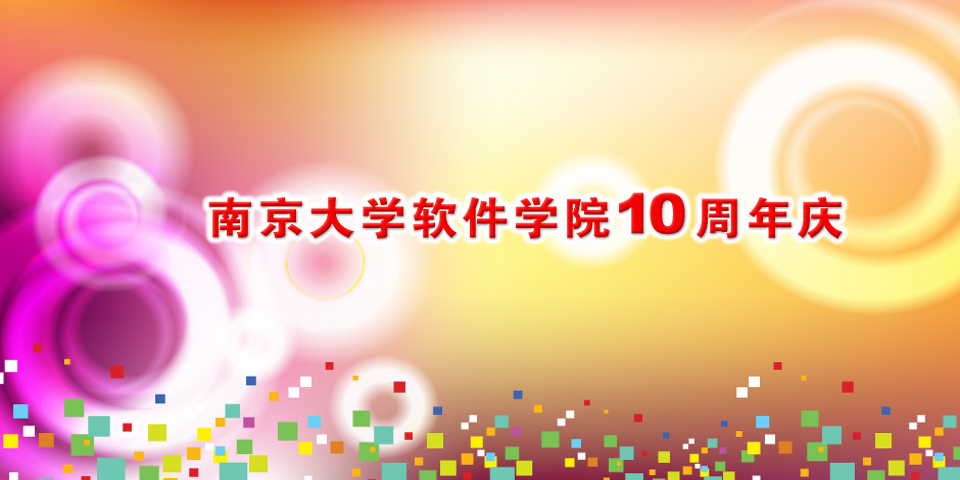
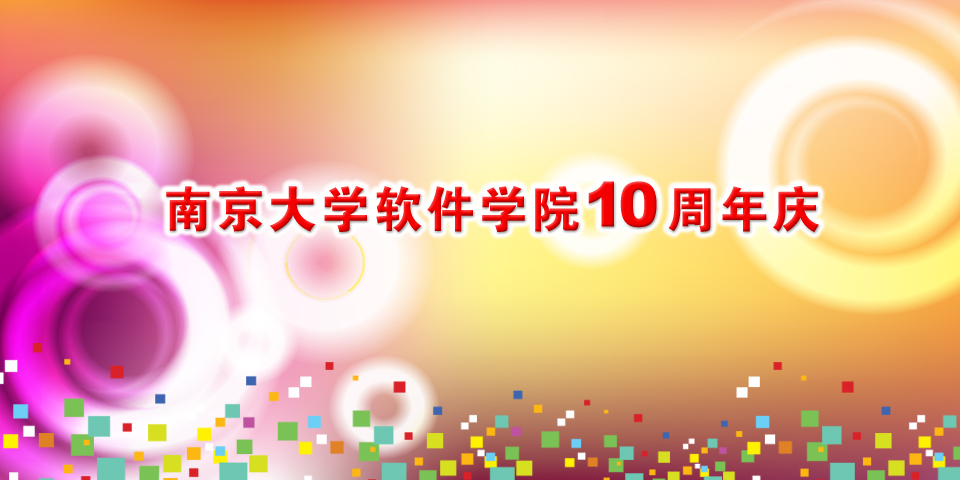
slide template

Changed region(s): [[0.1562, 0.3438, 0.9062, 0.5312]]

diff --git a/fonts/msyh.font.js b/fonts/msyh.font.js
@@ -21,4 +21,4 @@
  * License information:
  * http://www.microsoft.com/typography/fonts
  */
-Cufon.registerFont({"w":360,"face":{"font-family":"Microsoft YaHei","font-weight":700,"font-stretch":"normal","font-style":"normal","units-per-em":360,"panose-1":"2 11 7 3 2 2 4 2 2 1","ascent":288,"descent":-72,"bbox":"4 -302 358 53","underline-thickness":"20.918","underline-position":"-20.918","unicode-range":"U+0020-9996"},"glyphs":{" ":{"w":107},"\u00a0":{"w":107},"\u4e0b":{"d":"227,-190v38,27,76,56,114,85r-36,44v-40,-34,-76,-64,-109,-88r0,195r-57,0r0,-275r-129,0r0,-49r339,0r0,49r-153,0r0,70"},"\u4ea4":{"d":"9,-256r142,0v-5,-11,-8,-21,-12,-29r52,-16v6,11,12,26,21,45r136,0r0,44r-339,0r0,-44xm11,-131v39,-26,73,-52,102,-80r38,34v-34,30,-69,60,-107,87v-8,-11,-19,-25,-33,-41xm244,-210v39,27,73,53,104,77r-37,40v-32,-30,-66,-57,-100,-83xm129,-141v15,27,32,49,51,67v20,-19,36,-42,49,-68r42,28v-15,27,-32,51,-51,71v34,19,78,33,134,39v-12,20,-21,36,-29,50v-56,-8,-104,-25,-145,-54v-40,28,-89,46,-147,55v-6,-13,-15,-30,-28,-50v54,-7,99,-21,135,-41v-19,-20,-36,-43,-50,-68"},"\u516c":{"d":"253,-294v26,54,61,98,102,133v-17,17,-30,31,-40,42v-41,-38,-78,-89,-108,-153xm105,-290r48,20v-26,58,-63,110,-111,155v-8,-10,-20,-24,-35,-41v43,-38,75,-82,98,-134xm33,-13v36,-18,103,-132,123,-169r52,23v-40,62,-72,107,-97,135v46,-1,90,-2,132,-4v-14,-19,-29,-40,-45,-61r42,-27v37,45,70,89,99,133r-46,32v-6,-10,-11,-20,-18,-30v-73,6,-155,2,-220,16"},"\u5173":{"d":"9,-138r144,0v0,-1,0,-17,1,-46r-127,0r0,-45r76,0v-13,-18,-24,-32,-34,-43r39,-28v10,11,27,29,50,55r-23,16r61,0v18,-25,35,-48,48,-71r50,26r-38,45r78,0r0,45r-127,0v0,10,-1,25,-1,46r146,0r0,45r-137,0v22,46,68,75,139,89v-17,22,-28,38,-35,49v-66,-19,-113,-53,-139,-103v-23,43,-68,79,-136,107v-11,-13,-24,-29,-39,-45v74,-23,120,-55,139,-97r-135,0r0,-45"},"\u518c":{"d":"6,-156r32,0r0,-128r124,0r0,128r33,0r0,-129r127,0r0,129r33,0r0,46r-33,0v-3,45,10,106,-8,138v-12,21,-36,14,-72,15v-2,-15,-5,-31,-10,-47v25,2,46,8,46,-19r0,-87r-39,0v-1,74,-12,126,-34,159v-13,-11,-27,-20,-41,-28v19,-25,30,-68,31,-131r-33,0v-7,51,19,132,-27,147v-9,3,-25,3,-48,3v-4,-22,-7,-37,-10,-47v22,2,42,4,41,-20r0,-83r-36,0v-1,72,-13,125,-35,159v-14,-11,-28,-20,-43,-28v21,-31,32,-75,33,-131r-31,0r0,-46xm278,-242r-39,0r0,86r39,0r0,-86xm118,-241r-36,0r0,85r36,0r0,-85"},"\u52a8":{"d":"139,-123r37,89v16,-29,24,-83,24,-160r-36,0r0,-46r37,0r0,-60r47,0r0,60r92,0v-3,80,0,175,-8,249v-16,35,-30,31,-92,33v-4,-18,-8,-36,-13,-53v0,0,58,11,61,-14v5,-44,4,-108,4,-169r-45,0v-1,121,-13,178,-65,243v-13,-11,-27,-21,-42,-30v7,-7,12,-14,18,-22v-42,5,-97,4,-131,16r-22,-43v12,-10,27,-46,45,-110r-43,0r0,-45r162,0r0,45r-67,0v-11,34,-23,66,-35,98v21,-1,41,-1,58,-2v-8,-24,-17,-46,-25,-66xm157,-229r-135,0r0,-45r135,0r0,45"},"\u5386":{"d":"88,-235v3,113,1,224,-49,283v-11,-17,-23,-34,-35,-49v47,-59,33,-177,35,-280r311,0r0,46r-262,0xm167,-229r51,0v0,17,0,35,-1,52r116,0v-5,69,7,150,-18,194v-16,28,-59,19,-108,21v-2,-15,-5,-33,-10,-52v28,1,64,10,77,-9v5,-8,8,-44,8,-108r-68,0v-6,78,-42,137,-108,179v-10,-13,-22,-26,-36,-41v57,-32,88,-79,94,-138r-63,0r0,-46r65,0v1,-16,1,-33,1,-52"},"\u53cb":{"d":"324,-173r0,42v-18,37,-41,68,-69,95v29,15,62,26,100,33v-9,13,-18,30,-28,50v-42,-10,-80,-27,-113,-49v-32,22,-69,39,-111,51v-9,-18,-18,-33,-28,-46v38,-10,70,-23,98,-39v-18,-17,-33,-36,-47,-58r34,-31v14,24,32,45,54,62v24,-19,42,-41,56,-66r-142,0v-22,68,-54,123,-97,165v-8,-19,-17,-35,-26,-50v44,-46,74,-111,91,-197r-82,0r0,-44r89,0v2,-14,4,-28,5,-43r53,0v-1,15,-3,29,-5,43r193,0r0,44r-200,0v-2,13,-5,26,-8,38r183,0"},"\u53f2":{"d":"35,-258r122,0r0,-41r49,0r0,41r122,0r0,176r-48,0r0,-22r-76,0v-4,29,-11,53,-23,72v46,16,104,25,175,24r-27,51v-75,-3,-136,-15,-184,-36v-26,19,-62,34,-106,42v-10,-15,-22,-31,-34,-48v37,-5,67,-13,89,-23v-22,-17,-40,-37,-53,-61r28,-21r-34,0r0,-154xm280,-149r0,-64r-74,0r0,64r74,0xm84,-149r73,0r0,-64r-73,0r0,64xm154,-104r-72,0v13,20,31,37,53,51v9,-13,16,-30,19,-51"},"\u544a":{"d":"9,-175r41,0v-11,-7,-23,-14,-35,-20v24,-30,42,-63,54,-100r46,12v-4,10,-7,19,-11,28r57,0r0,-45r51,0r0,45r122,0r0,42r-122,0r0,38r142,0r0,43r-345,0r0,-43xm60,-175r101,0r0,-38r-77,0v-8,14,-16,27,-24,38xm48,47r0,-154r267,0r0,154r-48,0r0,-18r-171,0r0,18r-48,0xm267,-63r-171,0r0,48r171,0r0,-48"},"\u5c55":{"d":"337,-38r-52,23v19,8,42,14,66,16v-2,3,-12,18,-30,44v-47,-13,-85,-34,-113,-63v-1,13,0,27,0,42v-45,11,-76,19,-92,26r-17,-37v10,-8,8,-51,8,-74r-28,0v-5,44,-16,81,-34,112v-12,-17,-24,-31,-36,-44v27,-45,26,-197,25,-292r299,0r0,101r-57,0r0,26r62,0r0,35r-62,0r0,26r71,0r0,36r-27,0xm285,-219r0,-27r-202,0r0,27r202,0xm176,-158r55,0r0,-26r-55,0r0,26xm83,-158r48,0r0,-26r-48,0r0,26xm176,-97r55,0r0,-26r-55,0r0,26xm81,-97r50,0r0,-26r-49,0v0,9,-1,18,-1,26xm177,-61r-23,0r0,56v15,-4,32,-9,53,-15v-12,-12,-22,-26,-30,-41xm247,-36r44,-25r-72,0v8,10,18,17,28,25"},"\u5e86":{"d":"81,-217v3,100,-2,230,-35,270v-14,-13,-28,-25,-42,-36v35,-51,29,-182,29,-278r136,0v-5,-11,-8,-20,-11,-26r57,-14v3,8,9,21,16,40r116,0r0,44r-266,0xm91,-163r96,0v1,-12,2,-24,3,-38r47,0v0,6,-1,18,-2,38r110,0r0,45r-106,0v17,59,55,99,115,119v-13,17,-25,32,-35,47v-49,-22,-85,-60,-106,-116v-12,47,-49,86,-110,118v-12,-19,-23,-32,-33,-43v66,-29,103,-72,111,-125r-90,0r0,-45"},"\u6210":{"d":"356,-51v-6,36,-11,98,-55,98v-26,0,-46,-16,-63,-48v-17,18,-34,34,-53,49v-11,-14,-24,-26,-37,-37v26,-19,50,-41,71,-65v-9,-35,-15,-83,-18,-145r-120,0r0,41r100,0v-1,9,-2,130,-12,130v-16,26,-26,28,-79,27v-2,-20,-5,-37,-8,-51v23,4,44,7,48,-15v2,-12,2,-29,2,-48r-51,0v0,73,-12,127,-35,163v-13,-12,-26,-23,-41,-34v36,-51,29,-164,29,-255r166,0r-2,-58r50,0r0,58r48,0v-6,-8,-16,-21,-30,-37r37,-20v8,9,21,23,36,42r-28,15r39,0r0,42r-101,0v1,36,4,68,8,95v15,-24,29,-50,41,-78r43,20v-21,46,-43,86,-69,121v9,23,16,34,23,34v15,0,14,-48,16,-66v11,6,26,14,45,22"},"\u679c":{"d":"13,-99r144,0r0,-24r-113,0r0,-163r273,0r0,163r-112,0r0,24r143,0r0,44r-112,0v38,23,77,38,120,45v-9,18,-15,33,-20,47v-55,-16,-98,-41,-131,-74r0,84r-48,0r0,-82v-30,30,-71,55,-124,74v-7,-14,-16,-29,-25,-44v50,-11,90,-28,120,-50r-115,0r0,-44xm270,-248r-65,0r0,25r65,0r0,-25xm91,-223r66,0r0,-25r-66,0r0,25xm270,-160r0,-25r-65,0r0,25r65,0xm91,-160r66,0r0,-25r-66,0r0,25"},"\u6ce8":{"d":"97,-15r109,0r0,-78r-82,0r0,-46r82,0r0,-60r-92,0r0,-47r99,0v-7,-13,-14,-27,-22,-42r51,-13v11,24,18,42,22,55r79,0r0,47r-86,0r0,60r76,0r0,46r-76,0r0,78r99,0r0,46r-259,0r0,-46xm47,-291v18,13,38,30,61,50r-32,34v-21,-19,-40,-36,-58,-52xm34,-203v26,19,49,36,69,53r-33,37v-21,-19,-43,-38,-65,-56xm50,-104v16,7,32,12,47,16v-12,52,-26,96,-38,133v-17,-6,-33,-10,-48,-14v13,-36,26,-81,39,-135"},"\u6d41":{"d":"100,-262r89,0v-4,-9,-8,-19,-13,-29r53,-9v6,13,11,25,17,38r94,0r0,41r-119,0v-15,17,-30,34,-47,51r92,-4v-6,-7,-11,-13,-17,-20r38,-24v25,27,47,53,66,76r-41,28r-16,-21v-95,3,-156,6,-183,10r-15,-39v16,-6,36,-24,61,-57r-59,0r0,-41xm39,-295v18,13,38,28,58,45r-32,36v-20,-20,-39,-37,-55,-50xm36,-202v22,15,40,30,57,45r-33,37v-15,-15,-33,-31,-55,-49xm355,-57v-7,66,3,100,-63,101v-66,0,-31,-104,-40,-162r45,0r0,112v-2,16,19,14,19,0v0,-7,2,-28,4,-64v11,5,24,9,35,13xm169,-117v4,77,-10,133,-57,165v-10,-10,-21,-21,-35,-32v37,-27,49,-71,46,-133r46,0xm187,-117r45,0r0,157r-45,0r0,-157xm46,-108v15,7,31,14,46,19r-38,134v-17,-6,-32,-11,-47,-16v14,-39,27,-85,39,-137"},"\u76f8":{"d":"4,-88v22,-34,39,-66,48,-97r-44,0r0,-47r45,0r0,-65r46,0r0,65r39,0r0,47r-39,0r0,31v16,9,31,18,45,27r-20,40v-8,-6,-17,-13,-25,-19r0,153r-46,0r0,-139v-10,23,-22,44,-36,66v-4,-22,-9,-43,-13,-62xm148,-279r192,0r0,327r-48,0r0,-17r-96,0r0,17r-48,0r0,-327xm292,-234r-96,0r0,43r96,0r0,-43xm196,-103r96,0r0,-43r-96,0r0,43xm196,-14r96,0r0,-45r-96,0r0,45"},"\u793a":{"d":"43,-279r276,0r0,50r-276,0r0,-50xm12,-183r337,0r0,50r-136,0v-7,61,21,156,-34,173v-10,3,-35,4,-75,4v-4,-20,-8,-38,-12,-53v29,1,68,13,68,-16r0,-108r-148,0r0,-50xm81,-118r45,24v-28,46,-55,84,-80,114v-12,-10,-25,-20,-41,-31v29,-34,54,-69,76,-107xm274,-117v28,34,54,69,81,106v-13,8,-27,18,-45,30v-21,-34,-46,-71,-75,-110"},"\u8f6f":{"d":"350,-251v4,48,-11,75,-20,110r-45,-9r17,-58r-92,0v-9,26,-18,49,-28,70v-8,-6,-22,-14,-41,-24v23,-48,39,-94,48,-140r47,8v-4,15,-8,29,-12,43r126,0xm9,-9r-4,-46v22,-2,46,-4,72,-6r0,-32r-68,0v-5,-53,14,-79,22,-122r-25,0r0,-41r34,0v3,-14,6,-29,9,-44r46,4r-10,40r73,0r0,41r-83,0v-7,26,-15,53,-23,80r25,0r0,-60r42,0r0,60r41,0r0,42r-41,0r0,28r46,-5v-1,13,-3,29,-3,45r-43,4r0,69r-42,0r0,-64xm129,9v65,-49,87,-84,89,-196r45,0v0,18,-1,36,-3,52v20,66,52,110,96,132v-9,13,-19,28,-30,47v-37,-24,-63,-58,-81,-102v-15,42,-43,78,-82,107v-14,-18,-25,-31,-34,-40"},"\u8f7d":{"d":"6,-216r80,0r0,-23r-68,0r0,-34r68,0r0,-26r46,0r0,26r66,0r0,34r-66,0r0,23r76,0v-1,-26,-1,-54,-1,-84r46,0v0,30,0,58,1,84r100,0r0,37r-98,0v2,29,5,55,9,78v14,-21,26,-42,37,-65r39,19v-19,37,-39,71,-63,102v18,58,33,43,35,-27v14,9,29,16,43,22v0,112,-77,119,-114,46v-12,13,-24,26,-37,37v-7,-8,-16,-17,-25,-25r-38,1r0,38r-44,0r0,-36r-83,4r-5,-42r88,-2r0,-25r-78,0r0,-39v7,-7,14,-17,22,-30r-28,0r0,-35r48,0r8,-16r51,0r-9,16r88,0r0,35r-110,0v-8,12,-15,23,-23,34r31,0r0,-20r44,0r0,20r53,0r0,35r-53,0r0,24v20,-1,39,-2,55,-3v0,3,-1,6,-1,9v11,-9,21,-19,30,-29v-8,-32,-13,-74,-16,-126r-204,0r0,-37xm300,-299v13,14,28,31,43,52r-41,24v-12,-20,-25,-38,-38,-55"},"\u9662":{"d":"102,-151v30,36,50,151,-33,141v-2,-16,-4,-32,-8,-49v17,6,27,0,27,-21v0,-24,-8,-48,-26,-70v8,-33,16,-62,24,-91r-26,0r0,289r-41,0r0,-329r110,0v3,55,-17,85,-27,130xm298,2v28,-3,16,-19,22,-53v13,4,26,9,38,13v-7,52,-11,83,-70,83v-59,0,-38,-73,-42,-124r-24,0v-7,76,-34,106,-93,130v-10,-15,-19,-28,-29,-39v48,-22,71,-34,79,-91r-46,0r0,-41r211,0r0,41r-55,0r0,65v0,10,2,16,9,16xm131,-262r79,0v-3,-8,-6,-18,-9,-29r49,-7v4,12,6,24,9,36r81,0r0,67r-41,0r0,-25r-127,0r0,25r-41,0r0,-67xm149,-187r174,0r0,40r-174,0r0,-40"},"\u9875":{"d":"44,-40r0,-165r87,0v6,-13,10,-26,14,-38r-133,0r0,-42r336,0r0,42r-146,0v-6,13,-11,26,-17,38r133,0r0,163r-49,0r0,-121r-177,0r0,123r-48,0xm6,-3v109,-13,151,-31,152,-141r49,0v0,31,-1,60,-8,81v59,24,110,46,154,68r-27,44v-43,-24,-91,-49,-145,-74v-25,36,-73,60,-141,74v-9,-17,-20,-35,-34,-52"},"\u9996":{"d":"45,-186r93,0v2,-9,4,-18,5,-27r-133,0r0,-41r89,0v-8,-10,-16,-21,-26,-32r45,-15v13,14,25,27,35,38r-27,9r78,0v13,-16,25,-31,37,-47r48,14r-29,33r92,0r0,41r-157,0r-6,27r132,0r0,233r-51,0r0,-21r-174,0r0,21r-51,0r0,-233xm270,-146r-174,0r0,20r174,0r0,-20xm96,-70r174,0r0,-20r-174,0r0,20xm96,-13r174,0r0,-20r-174,0r0,20"},"\u6001":{"d":"17,-260r132,0v2,-12,4,-26,3,-40r52,0v0,15,-1,28,-2,40r141,0r0,42r-119,0v30,33,74,55,131,66v-9,18,-18,35,-25,52v-64,-19,-114,-56,-150,-108v-26,51,-75,88,-147,112v-9,-19,-18,-35,-28,-51v67,-15,109,-39,128,-71r-116,0r0,-42xm164,-170v16,10,36,23,58,38r-31,32v-20,-16,-39,-31,-56,-42xm167,-109v24,14,47,28,67,43r-29,34v-20,-16,-41,-31,-64,-45xm309,-96v18,27,33,53,47,80r-42,23v-13,-27,-27,-55,-45,-83xm209,-1v32,-2,29,-12,36,-48v17,8,33,15,48,21v-15,50,-19,70,-73,70v-59,0,-132,15,-132,-52r0,-74r46,0v5,30,-15,84,22,83r53,0xm37,-82r44,14v-12,36,-22,65,-32,88r-44,-17v12,-27,23,-55,32,-85"}}});
+Cufon.registerFont({"w":360,"face":{"font-family":"Microsoft YaHei","font-weight":700,"font-stretch":"normal","font-style":"normal","units-per-em":360,"panose-1":"2 11 7 3 2 2 4 2 2 1","ascent":288,"descent":-72,"bbox":"4 -302 358 53","underline-thickness":"20.918","underline-position":"-20.918","unicode-range":"U+0020-9996"},"glyphs":{" ":{"w":107},"\u00a0":{"w":107},"\u4e0b":{"d":"227,-190v38,27,76,56,114,85r-36,44v-40,-34,-76,-64,-109,-88r0,195r-57,0r0,-275r-129,0r0,-49r339,0r0,49r-153,0r0,70"},"\u4ea4":{"d":"9,-256r142,0v-5,-11,-8,-21,-12,-29r52,-16v6,11,12,26,21,45r136,0r0,44r-339,0r0,-44xm11,-131v39,-26,73,-52,102,-80r38,34v-34,30,-69,60,-107,87v-8,-11,-19,-25,-33,-41xm244,-210v39,27,73,53,104,77r-37,40v-32,-30,-66,-57,-100,-83xm129,-141v15,27,32,49,51,67v20,-19,36,-42,49,-68r42,28v-15,27,-32,51,-51,71v34,19,78,33,134,39v-12,20,-21,36,-29,50v-56,-8,-104,-25,-145,-54v-40,28,-89,46,-147,55v-6,-13,-15,-30,-28,-50v54,-7,99,-21,135,-41v-19,-20,-36,-43,-50,-68"},"\u516c":{"d":"253,-294v26,54,61,98,102,133v-17,17,-30,31,-40,42v-41,-38,-78,-89,-108,-153xm105,-290r48,20v-26,58,-63,110,-111,155v-8,-10,-20,-24,-35,-41v43,-38,75,-82,98,-134xm33,-13v36,-18,103,-132,123,-169r52,23v-40,62,-72,107,-97,135v46,-1,90,-2,132,-4v-14,-19,-29,-40,-45,-61r42,-27v37,45,70,89,99,133r-46,32v-6,-10,-11,-20,-18,-30v-73,6,-155,2,-220,16"},"\u5173":{"d":"9,-138r144,0v0,-1,0,-17,1,-46r-127,0r0,-45r76,0v-13,-18,-24,-32,-34,-43r39,-28v10,11,27,29,50,55r-23,16r61,0v18,-25,35,-48,48,-71r50,26r-38,45r78,0r0,45r-127,0v0,10,-1,25,-1,46r146,0r0,45r-137,0v22,46,68,75,139,89v-17,22,-28,38,-35,49v-66,-19,-113,-53,-139,-103v-23,43,-68,79,-136,107v-11,-13,-24,-29,-39,-45v74,-23,120,-55,139,-97r-135,0r0,-45"},"\u518c":{"d":"6,-156r32,0r0,-128r124,0r0,128r33,0r0,-129r127,0r0,129r33,0r0,46r-33,0v-3,45,10,106,-8,138v-12,21,-36,14,-72,15v-2,-15,-5,-31,-10,-47v25,2,46,8,46,-19r0,-87r-39,0v-1,74,-12,126,-34,159v-13,-11,-27,-20,-41,-28v19,-25,30,-68,31,-131r-33,0v-7,51,19,132,-27,147v-9,3,-25,3,-48,3v-4,-22,-7,-37,-10,-47v22,2,42,4,41,-20r0,-83r-36,0v-1,72,-13,125,-35,159v-14,-11,-28,-20,-43,-28v21,-31,32,-75,33,-131r-31,0r0,-46xm278,-242r-39,0r0,86r39,0r0,-86xm118,-241r-36,0r0,85r36,0r0,-85"},"\u52a8":{"d":"139,-123r37,89v16,-29,24,-83,24,-160r-36,0r0,-46r37,0r0,-60r47,0r0,60r92,0v-3,80,0,175,-8,249v-16,35,-30,31,-92,33v-4,-18,-8,-36,-13,-53v0,0,58,11,61,-14v5,-44,4,-108,4,-169r-45,0v-1,121,-13,178,-65,243v-13,-11,-27,-21,-42,-30v7,-7,12,-14,18,-22v-42,5,-97,4,-131,16r-22,-43v12,-10,27,-46,45,-110r-43,0r0,-45r162,0r0,45r-67,0v-11,34,-23,66,-35,98v21,-1,41,-1,58,-2v-8,-24,-17,-46,-25,-66xm157,-229r-135,0r0,-45r135,0r0,45"},"\u53cb":{"d":"324,-173r0,42v-18,37,-41,68,-69,95v29,15,62,26,100,33v-9,13,-18,30,-28,50v-42,-10,-80,-27,-113,-49v-32,22,-69,39,-111,51v-9,-18,-18,-33,-28,-46v38,-10,70,-23,98,-39v-18,-17,-33,-36,-47,-58r34,-31v14,24,32,45,54,62v24,-19,42,-41,56,-66r-142,0v-22,68,-54,123,-97,165v-8,-19,-17,-35,-26,-50v44,-46,74,-111,91,-197r-82,0r0,-44r89,0v2,-14,4,-28,5,-43r53,0v-1,15,-3,29,-5,43r193,0r0,44r-200,0v-2,13,-5,26,-8,38r183,0"},"\u544a":{"d":"9,-175r41,0v-11,-7,-23,-14,-35,-20v24,-30,42,-63,54,-100r46,12v-4,10,-7,19,-11,28r57,0r0,-45r51,0r0,45r122,0r0,42r-122,0r0,38r142,0r0,43r-345,0r0,-43xm60,-175r101,0r0,-38r-77,0v-8,14,-16,27,-24,38xm48,47r0,-154r267,0r0,154r-48,0r0,-18r-171,0r0,18r-48,0xm267,-63r-171,0r0,48r171,0r0,-48"},"\u5c55":{"d":"337,-38r-52,23v19,8,42,14,66,16v-2,3,-12,18,-30,44v-47,-13,-85,-34,-113,-63v-1,13,0,27,0,42v-45,11,-76,19,-92,26r-17,-37v10,-8,8,-51,8,-74r-28,0v-5,44,-16,81,-34,112v-12,-17,-24,-31,-36,-44v27,-45,26,-197,25,-292r299,0r0,101r-57,0r0,26r62,0r0,35r-62,0r0,26r71,0r0,36r-27,0xm285,-219r0,-27r-202,0r0,27r202,0xm176,-158r55,0r0,-26r-55,0r0,26xm83,-158r48,0r0,-26r-48,0r0,26xm176,-97r55,0r0,-26r-55,0r0,26xm81,-97r50,0r0,-26r-49,0v0,9,-1,18,-1,26xm177,-61r-23,0r0,56v15,-4,32,-9,53,-15v-12,-12,-22,-26,-30,-41xm247,-36r44,-25r-72,0v8,10,18,17,28,25"},"\u5e86":{"d":"81,-217v3,100,-2,230,-35,270v-14,-13,-28,-25,-42,-36v35,-51,29,-182,29,-278r136,0v-5,-11,-8,-20,-11,-26r57,-14v3,8,9,21,16,40r116,0r0,44r-266,0xm91,-163r96,0v1,-12,2,-24,3,-38r47,0v0,6,-1,18,-2,38r110,0r0,45r-106,0v17,59,55,99,115,119v-13,17,-25,32,-35,47v-49,-22,-85,-60,-106,-116v-12,47,-49,86,-110,118v-12,-19,-23,-32,-33,-43v66,-29,103,-72,111,-125r-90,0r0,-45"},"\u6210":{"d":"356,-51v-6,36,-11,98,-55,98v-26,0,-46,-16,-63,-48v-17,18,-34,34,-53,49v-11,-14,-24,-26,-37,-37v26,-19,50,-41,71,-65v-9,-35,-15,-83,-18,-145r-120,0r0,41r100,0v-1,9,-2,130,-12,130v-16,26,-26,28,-79,27v-2,-20,-5,-37,-8,-51v23,4,44,7,48,-15v2,-12,2,-29,2,-48r-51,0v0,73,-12,127,-35,163v-13,-12,-26,-23,-41,-34v36,-51,29,-164,29,-255r166,0r-2,-58r50,0r0,58r48,0v-6,-8,-16,-21,-30,-37r37,-20v8,9,21,23,36,42r-28,15r39,0r0,42r-101,0v1,36,4,68,8,95v15,-24,29,-50,41,-78r43,20v-21,46,-43,86,-69,121v9,23,16,34,23,34v15,0,14,-48,16,-66v11,6,26,14,45,22"},"\u679c":{"d":"13,-99r144,0r0,-24r-113,0r0,-163r273,0r0,163r-112,0r0,24r143,0r0,44r-112,0v38,23,77,38,120,45v-9,18,-15,33,-20,47v-55,-16,-98,-41,-131,-74r0,84r-48,0r0,-82v-30,30,-71,55,-124,74v-7,-14,-16,-29,-25,-44v50,-11,90,-28,120,-50r-115,0r0,-44xm270,-248r-65,0r0,25r65,0r0,-25xm91,-223r66,0r0,-25r-66,0r0,25xm270,-160r0,-25r-65,0r0,25r65,0xm91,-160r66,0r0,-25r-66,0r0,25"},"\u6ce8":{"d":"97,-15r109,0r0,-78r-82,0r0,-46r82,0r0,-60r-92,0r0,-47r99,0v-7,-13,-14,-27,-22,-42r51,-13v11,24,18,42,22,55r79,0r0,47r-86,0r0,60r76,0r0,46r-76,0r0,78r99,0r0,46r-259,0r0,-46xm47,-291v18,13,38,30,61,50r-32,34v-21,-19,-40,-36,-58,-52xm34,-203v26,19,49,36,69,53r-33,37v-21,-19,-43,-38,-65,-56xm50,-104v16,7,32,12,47,16v-12,52,-26,96,-38,133v-17,-6,-33,-10,-48,-14v13,-36,26,-81,39,-135"},"\u6d41":{"d":"100,-262r89,0v-4,-9,-8,-19,-13,-29r53,-9v6,13,11,25,17,38r94,0r0,41r-119,0v-15,17,-30,34,-47,51r92,-4v-6,-7,-11,-13,-17,-20r38,-24v25,27,47,53,66,76r-41,28r-16,-21v-95,3,-156,6,-183,10r-15,-39v16,-6,36,-24,61,-57r-59,0r0,-41xm39,-295v18,13,38,28,58,45r-32,36v-20,-20,-39,-37,-55,-50xm36,-202v22,15,40,30,57,45r-33,37v-15,-15,-33,-31,-55,-49xm355,-57v-7,66,3,100,-63,101v-66,0,-31,-104,-40,-162r45,0r0,112v-2,16,19,14,19,0v0,-7,2,-28,4,-64v11,5,24,9,35,13xm169,-117v4,77,-10,133,-57,165v-10,-10,-21,-21,-35,-32v37,-27,49,-71,46,-133r46,0xm187,-117r45,0r0,157r-45,0r0,-157xm46,-108v15,7,31,14,46,19r-38,134v-17,-6,-32,-11,-47,-16v14,-39,27,-85,39,-137"},"\u7565":{"d":"341,-265v7,57,-21,77,-45,104v18,7,38,12,60,15v-5,14,-10,30,-14,47v-31,-7,-59,-17,-83,-33v-23,14,-50,26,-80,35r156,0r0,145r-44,0r0,-19r-73,0r0,19r-43,0r0,-143r-6,2v-4,-10,-9,-21,-14,-31r0,150r-36,0r0,-26r-65,0r0,28r-35,0r0,-302r136,0r0,70v27,-30,46,-62,57,-97r44,6v-3,10,-7,21,-11,30r96,0xm119,-240r-17,0r0,86r17,0r0,-86xm54,-154r18,0r0,-86r-18,0r0,86xm224,-221v9,15,21,27,34,38v14,-12,26,-26,34,-42r-66,0v-1,1,-1,3,-2,4xm181,-164v-6,-8,-15,-17,-26,-28r0,55v26,-6,49,-14,68,-24v-8,-8,-16,-17,-23,-26v-6,8,-12,16,-19,23xm54,-34r18,0r0,-86r-18,0r0,86xm102,-34r17,0r0,-86r-17,0r0,86xm291,-54r-73,0r0,41r73,0r0,-41"},"\u76f8":{"d":"4,-88v22,-34,39,-66,48,-97r-44,0r0,-47r45,0r0,-65r46,0r0,65r39,0r0,47r-39,0r0,31v16,9,31,18,45,27r-20,40v-8,-6,-17,-13,-25,-19r0,153r-46,0r0,-139v-10,23,-22,44,-36,66v-4,-22,-9,-43,-13,-62xm148,-279r192,0r0,327r-48,0r0,-17r-96,0r0,17r-48,0r0,-327xm292,-234r-96,0r0,43r96,0r0,-43xm196,-103r96,0r0,-43r-96,0r0,43xm196,-14r96,0r0,-45r-96,0r0,45"},"\u793a":{"d":"43,-279r276,0r0,50r-276,0r0,-50xm12,-183r337,0r0,50r-136,0v-7,61,21,156,-34,173v-10,3,-35,4,-75,4v-4,-20,-8,-38,-12,-53v29,1,68,13,68,-16r0,-108r-148,0r0,-50xm81,-118r45,24v-28,46,-55,84,-80,114v-12,-10,-25,-20,-41,-31v29,-34,54,-69,76,-107xm274,-117v28,34,54,69,81,106v-13,8,-27,18,-45,30v-21,-34,-46,-71,-75,-110"},"\u7eaa":{"d":"79,-97v19,-2,40,-5,62,-8v-2,18,-4,33,-4,43v-61,6,-98,11,-110,15r-17,-42v14,-7,32,-29,56,-65v-22,1,-38,3,-48,6r-14,-41v13,-9,34,-47,64,-113r47,17v-24,41,-42,73,-55,93v8,0,18,0,31,-1v8,-13,15,-28,23,-42r42,20v-31,51,-57,91,-77,118xm272,-9v38,-5,27,-20,34,-71v22,8,38,13,49,16v-11,63,-6,99,-68,99v-63,0,-133,18,-133,-57r0,-147r128,0r0,-66r-134,0r0,-46r182,0r0,158r-128,0r0,91v-2,33,41,21,70,23xm14,31r-9,-46v42,-4,86,-10,132,-17v-1,17,-1,33,-1,46v-39,5,-79,10,-122,17"},"\u8f6f":{"d":"350,-251v4,48,-11,75,-20,110r-45,-9r17,-58r-92,0v-9,26,-18,49,-28,70v-8,-6,-22,-14,-41,-24v23,-48,39,-94,48,-140r47,8v-4,15,-8,29,-12,43r126,0xm9,-9r-4,-46v22,-2,46,-4,72,-6r0,-32r-68,0v-5,-53,14,-79,22,-122r-25,0r0,-41r34,0v3,-14,6,-29,9,-44r46,4r-10,40r73,0r0,41r-83,0v-7,26,-15,53,-23,80r25,0r0,-60r42,0r0,60r41,0r0,42r-41,0r0,28r46,-5v-1,13,-3,29,-3,45r-43,4r0,69r-42,0r0,-64xm129,9v65,-49,87,-84,89,-196r45,0v0,18,-1,36,-3,52v20,66,52,110,96,132v-9,13,-19,28,-30,47v-37,-24,-63,-58,-81,-102v-15,42,-43,78,-82,107v-14,-18,-25,-31,-34,-40"},"\u8f7d":{"d":"6,-216r80,0r0,-23r-68,0r0,-34r68,0r0,-26r46,0r0,26r66,0r0,34r-66,0r0,23r76,0v-1,-26,-1,-54,-1,-84r46,0v0,30,0,58,1,84r100,0r0,37r-98,0v2,29,5,55,9,78v14,-21,26,-42,37,-65r39,19v-19,37,-39,71,-63,102v18,58,33,43,35,-27v14,9,29,16,43,22v0,112,-77,119,-114,46v-12,13,-24,26,-37,37v-7,-8,-16,-17,-25,-25r-38,1r0,38r-44,0r0,-36r-83,4r-5,-42r88,-2r0,-25r-78,0r0,-39v7,-7,14,-17,22,-30r-28,0r0,-35r48,0r8,-16r51,0r-9,16r88,0r0,35r-110,0v-8,12,-15,23,-23,34r31,0r0,-20r44,0r0,20r53,0r0,35r-53,0r0,24v20,-1,39,-2,55,-3v0,3,-1,6,-1,9v11,-9,21,-19,30,-29v-8,-32,-13,-74,-16,-126r-204,0r0,-37xm300,-299v13,14,28,31,43,52r-41,24v-12,-20,-25,-38,-38,-55"},"\u9662":{"d":"102,-151v30,36,50,151,-33,141v-2,-16,-4,-32,-8,-49v17,6,27,0,27,-21v0,-24,-8,-48,-26,-70v8,-33,16,-62,24,-91r-26,0r0,289r-41,0r0,-329r110,0v3,55,-17,85,-27,130xm298,2v28,-3,16,-19,22,-53v13,4,26,9,38,13v-7,52,-11,83,-70,83v-59,0,-38,-73,-42,-124r-24,0v-7,76,-34,106,-93,130v-10,-15,-19,-28,-29,-39v48,-22,71,-34,79,-91r-46,0r0,-41r211,0r0,41r-55,0r0,65v0,10,2,16,9,16xm131,-262r79,0v-3,-8,-6,-18,-9,-29r49,-7v4,12,6,24,9,36r81,0r0,67r-41,0r0,-25r-127,0r0,25r-41,0r0,-67xm149,-187r174,0r0,40r-174,0r0,-40"},"\u9875":{"d":"44,-40r0,-165r87,0v6,-13,10,-26,14,-38r-133,0r0,-42r336,0r0,42r-146,0v-6,13,-11,26,-17,38r133,0r0,163r-49,0r0,-121r-177,0r0,123r-48,0xm6,-3v109,-13,151,-31,152,-141r49,0v0,31,-1,60,-8,81v59,24,110,46,154,68r-27,44v-43,-24,-91,-49,-145,-74v-25,36,-73,60,-141,74v-9,-17,-20,-35,-34,-52"},"\u9996":{"d":"45,-186r93,0v2,-9,4,-18,5,-27r-133,0r0,-41r89,0v-8,-10,-16,-21,-26,-32r45,-15v13,14,25,27,35,38r-27,9r78,0v13,-16,25,-31,37,-47r48,14r-29,33r92,0r0,41r-157,0r-6,27r132,0r0,233r-51,0r0,-21r-174,0r0,21r-51,0r0,-233xm270,-146r-174,0r0,20r174,0r0,-20xm96,-70r174,0r0,-20r-174,0r0,20xm96,-13r174,0r0,-20r-174,0r0,20"},"\u6001":{"d":"17,-260r132,0v2,-12,4,-26,3,-40r52,0v0,15,-1,28,-2,40r141,0r0,42r-119,0v30,33,74,55,131,66v-9,18,-18,35,-25,52v-64,-19,-114,-56,-150,-108v-26,51,-75,88,-147,112v-9,-19,-18,-35,-28,-51v67,-15,109,-39,128,-71r-116,0r0,-42xm164,-170v16,10,36,23,58,38r-31,32v-20,-16,-39,-31,-56,-42xm167,-109v24,14,47,28,67,43r-29,34v-20,-16,-41,-31,-64,-45xm309,-96v18,27,33,53,47,80r-42,23v-13,-27,-27,-55,-45,-83xm209,-1v32,-2,29,-12,36,-48v17,8,33,15,48,21v-15,50,-19,70,-73,70v-59,0,-132,15,-132,-52r0,-74r46,0v5,30,-15,84,22,83r53,0xm37,-82r44,14v-12,36,-22,65,-32,88r-44,-17v12,-27,23,-55,32,-85"}}});

diff --git a/index.html b/index.html
@@ -1,3 +1,39 @@
+---
+layout: nil
+
+slider:
+ - image: assets/slider01.jpg
+   link: assets/slider01.jpg
+   is_lightbox: false
+   caption_title: 院庆详细情况见公告
+   caption_content: 学院已毕业校友请进行院友注册
+   effect: vertical_slice
+ - image: assets/slider02.jpg
+   link: assets/slider02.jpg
+   is_lightbox: true
+   caption_title: 浦口南京大学软件学院教学实验楼
+   caption_content: 
+   effect: vertical_mirror
+ - image: assets/slider03.jpg
+   link: assets/slider03.jpg
+   is_lightbox: true
+   caption_title: 鼓楼校区科研综合楼
+   caption_content:
+   effect: horizontal_slice
+ - image: assets/slider04.jpg
+   link: assets/slider04.jpg
+   is_lightbox: true
+   caption_title: 仙林实验楼
+   caption_content: 
+   effect: vertical_mirror
+ - image: assets/slider05.jpg
+   link: assets/slider05.jpg
+   is_lightbox: false
+   caption_title: 南京大学北大楼
+   caption_content:
+   effect: fold
+
+---
 <!doctype html>
 <!--[if lt IE 7]> <html class="no-js lt-ie9 lt-ie8 lt-ie7" lang="zh"> <![endif]-->
 <!--[if IE 7]>    <html class="no-js lt-ie9 lt-ie8" lang="zh"> <![endif]-->
@@ -6,9 +42,12 @@
 <head>
   <meta charset="utf-8">
   <meta http-equiv="X-UA-Compatible" content="IE=edge,chrome=1">
-  <title>南京大学软件学院十周年庆 2002-2012</title>
-  <meta name="description" content="南京大学软件学院十周年庆 2002-2012">
+  <title>{{ site.name }}</title>
+  <meta name="robots" content="index,follow" />
+  <meta name="description" content="{{ site.description }}">
+  <meta name="keywords" content="{{ site.keywords | join:", " }}" />
   <meta name="viewport" content="width=device-width">
+  <link rel="shortcut icon" href="favicon.ico" />
   <link rel="apple-touch-icon-precomposed" href="apple-touch-icon-precomposed.png">
   <link rel="stylesheet" type="text/css" href="js/prettyPhoto/css/prettyPhoto.css" media="screen"/>
   <link rel="stylesheet" href="css/style.css">
@@ -32,7 +71,7 @@
       <li><a href="#announcement">院庆公告</a></li>
       <li><a href="#news">交流动态</a></li>
       <li><a href="#achivement">成果展示</a></li>
-      <li><a href="#history">软院历史</a></li>
+      <li><a href="#history">软院纪略</a></li>
       <li><a href="#download">相关下载</a></li>
       <li><a href="#register">院友注册</a></li>
     </ul>
@@ -51,75 +90,21 @@
   <div id="homepage-slider" class="rs big-slider navigation">
     <!-- slider content -->
     <div class="rs-content">
-      <!-- slide -->
-      <div class="rs-slide" data-effect="vertical_slice">
+      {% for slide in page.slider %}<!-- slide -->
+      <div class="rs-slide" data-effect="{{  slide.effect  }}">
         <div class="rs-slide-content">
-          <!-- image -->
-          <div class="rs-image"><a href="assets/slider01.jpg" class="rs-next-click"><img src="assets/slider01.jpg" alt="assets/slider01.jpg"/></a></div>
-          <!-- /image -->
-        </div>
-      </div>
-      <!-- /slide -->
-      <!-- slide -->
-      <div class="rs-slide" data-effect="vertical_slice">
-        <div class="rs-slide-content">
-          <!-- caption -->
+          {% if slide.caption_title %}<!-- caption -->
           <div class="rs-caption">
-            <h2>软件学院成立十周年</h2>
-            <p>图片描述</p>
+            <h2>{{  slide.caption_title  }}</h2>
+            {% if slide.caption_content %}<p>{{  slide.caption_content  }}</p>{% endif %}
           </div>
-          <!-- /caption -->
+          <!-- /caption -->{% endif %}
           <!-- image -->
-          <div class="rs-image"><a href="assets/slider02.jpg" data-gal="lightbox" title="Project title"><img src="assets/slider02.jpg" alt=""/></a></div>
+          <div class="rs-image"><a href="{{  slide.link  }}" {% if slide.is_lightbox %} data-gal="lightbox" {% else %} class="rs-next-click" {% endif %} title=""><img src="{{  slide.image  }}" alt=""/></a></div>
           <!-- /image -->
-        </div>
-      </div>
-      <!-- /slide -->
-      <!-- slide -->
-      <div class="rs-slide" data-effect="vertical_mirror">
-        <div class="rs-slide-content">
-          <!-- caption -->
-          <div class="rs-caption">
-            <h2>示例示例</h2>
-            <p>软件学院成立十周年软件学院成立十周年</p>
           </div>
-          <!-- /caption -->
-          <!-- image -->
-          <div class="rs-image"><a href="assets/slider03.jpg" data-gal="lightbox" title="Project title"><img src="assets/slider03.jpg" alt=""/></a></div>
-          <!-- /image -->
-        </div>
       </div>
-      <!-- /slide -->
-      <!-- slide -->
-      <div class="rs-slide" data-effect="horizontal_slice">
-        <div class="rs-slide-content">
-          <!-- caption -->
-          <div class="rs-caption">
-            <h2>示例示例</h2>
-            <p>软件学院成立十周年软件学院成立十周年</p>
-          </div>
-          <!-- /caption -->
-          <!-- image -->
-          <div class="rs-image"><a href="assets/slider04.jpg" data-gal="lightbox" title="Project title"><img src="assets/slider04.jpg" alt=""/></a></div>
-          <!-- /image -->
-        </div>
-      </div>
-      <!-- /slide -->
-      <!-- slide -->
-      <div class="rs-slide" data-effect="horizontal_slice">
-        <div class="rs-slide-content">
-          <!-- caption -->
-          <div class="rs-caption">
-            <h2>示例示例</h2>
-            <p>软件学院成立十周年软件学院成立十周年</p>
-          </div>
-          <!-- /caption -->
-          <!-- image -->
-          <div class="rs-image"><a href="assets/slider05.jpg" data-gal="lightbox" title="Project title"><img src="assets/slider05.jpg" alt=""/></a></div>
-          <!-- /image -->
-        </div>
-      </div>
-      <!-- /slide -->
+      <!-- /slide -->{% endfor %}
     </div>
     <!-- /slider content -->
     <!-- slider navigation -->
@@ -135,7 +120,7 @@
   <!-- section content -->
   <div class="latest content clearfix">
     <!-- view all works - button -->
-    <a href="index.html#announcement" id="view-projects-btn"></a>
+    <a href="#announcement" id="view-projects-btn"></a>
     <!-- /view all works - button -->
   </div>
   <!-- /section content -->
@@ -406,7 +391,7 @@
   <div class="section-line"></div>
   <!-- section header -->
   <div class="section-header">
-    <h2>软院历史</h2>
+    <h2>软院纪略</h2>
   </div>
   <!-- /section header -->
   <!-- section content -->
@@ -578,6 +563,9 @@
   <!-- section content -->
   <div class="content clearfix">
     <div class="col col-1-2">
+      {% for post in site.categories.announcement%}
+      {{  post.title }}
+      {% endfor %}
       院友系统是。。。。。。。。。。。。。。。。。。。。。。。
     </div>
     <div class="col col-1-2 last">
@@ -619,7 +607,7 @@
   <script type="text/javascript" src="js/jquery.masonry.min.js"></script>  -->
   <script type="text/javascript" src="js/cufon-yui.js"></script>
   <script type="text/javascript" src="js/prettyPhoto/js/jquery.prettyPhoto.js"></script>
-  <script type="text/javascript" src="fonts/msyh.font.js"></script>
+  <script type="text/javascript" src="fonts/lth.font.js"></script>
 
 
 

diff --git a/js/custom.js b/js/custom.js
@@ -358,13 +358,13 @@ jQuery(document).ready(function () {
    ------------------------------------------------------------------------*/
   //Cufon.replace('h1, h2, h3, h4, h5, h6, #menu > li > a', {fontFamily: 'PT Sans Narrow', hover: 'true', textShadow: '#222 1px 1px'});
   Cufon.replace('#menu > li > a', {
-    fontFamily: "Microsoft YaHei",
+    fontFamily: "FZLanTingHeiS-H-GB",
     hover: true,
     separate: 'characters',
     textShadow: '#111 0 1px'
   });
   Cufon.replace('.section-header > h2', {
-    fontFamily: "Microsoft YaHei",
+    fontFamily: "FZLanTingHeiS-H-GB",
     separate: 'characters',
     textShadow: '#EEE 1px 1px;',
     color: '-linear-gradient(#333, #555)'

diff --git a/README.md b/README.md
@@ -10,4 +10,4 @@
 
     entries = Dir.chdir(base) { filter_entries(Dir.entries('.')) }
 
-保存即可。
+保存即可。[ref](https://github.com/mojombo/jekyll/commit/9d70088f01d41dccbc3e4eedd7f2435ff25dcd31)
